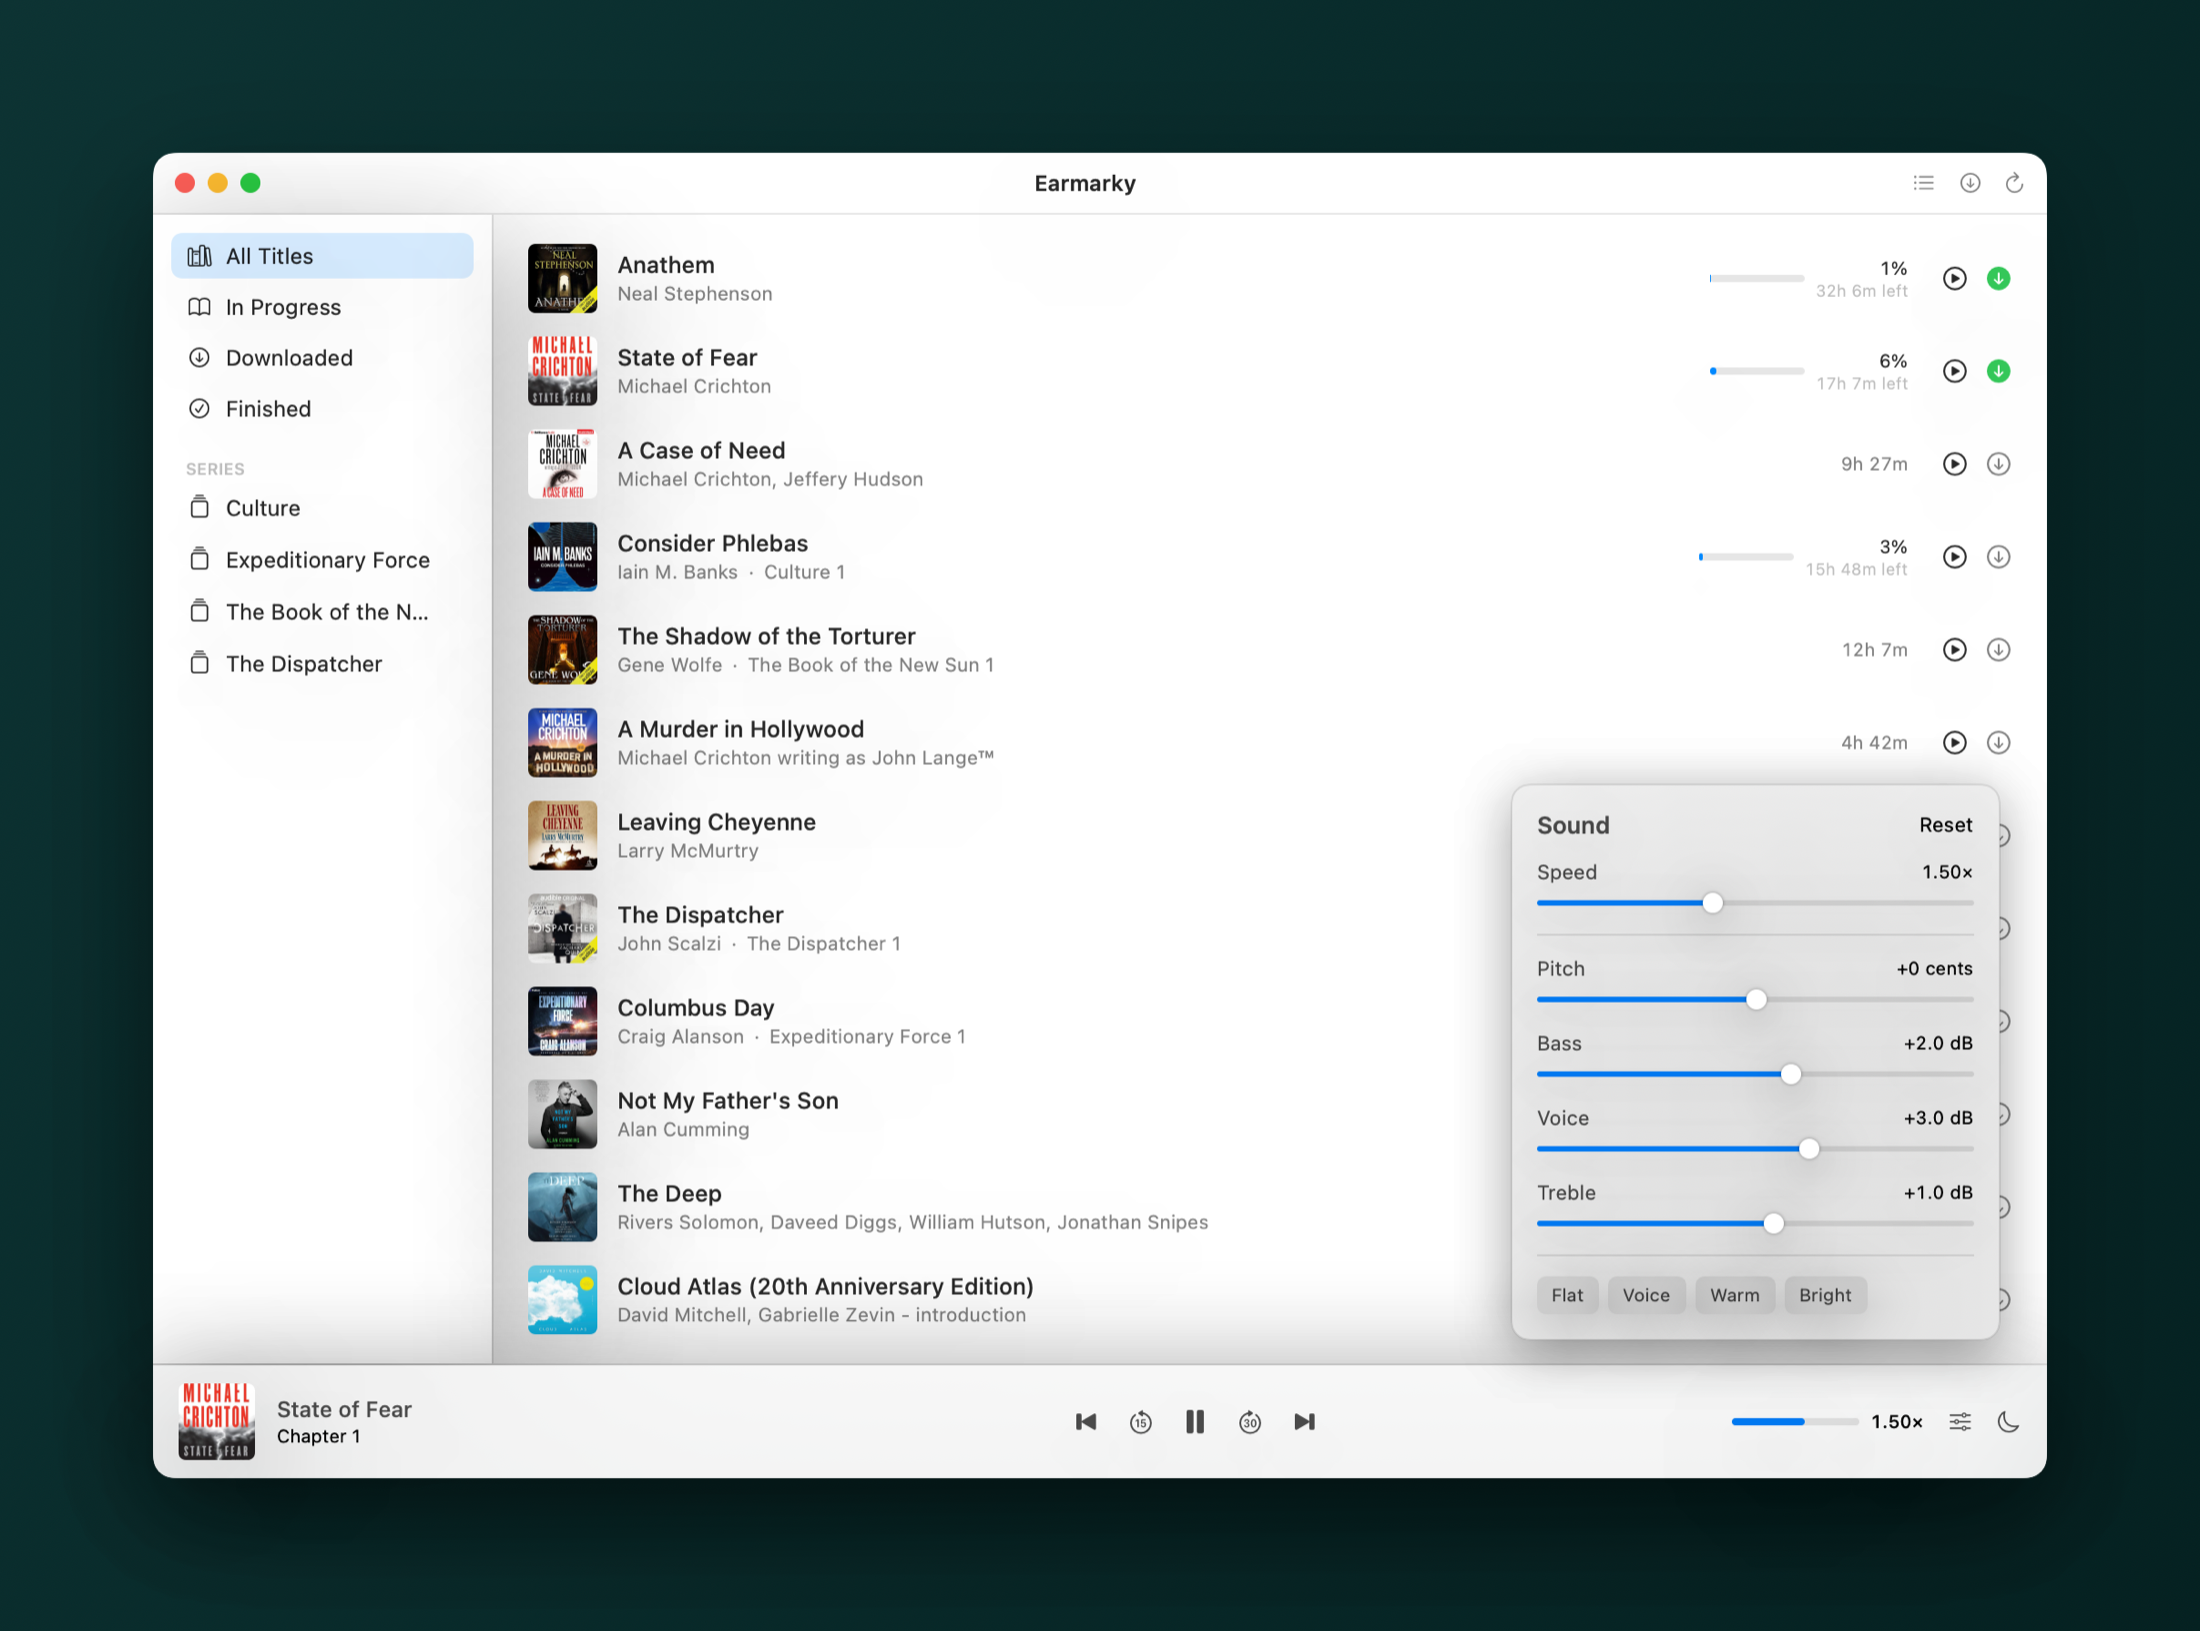
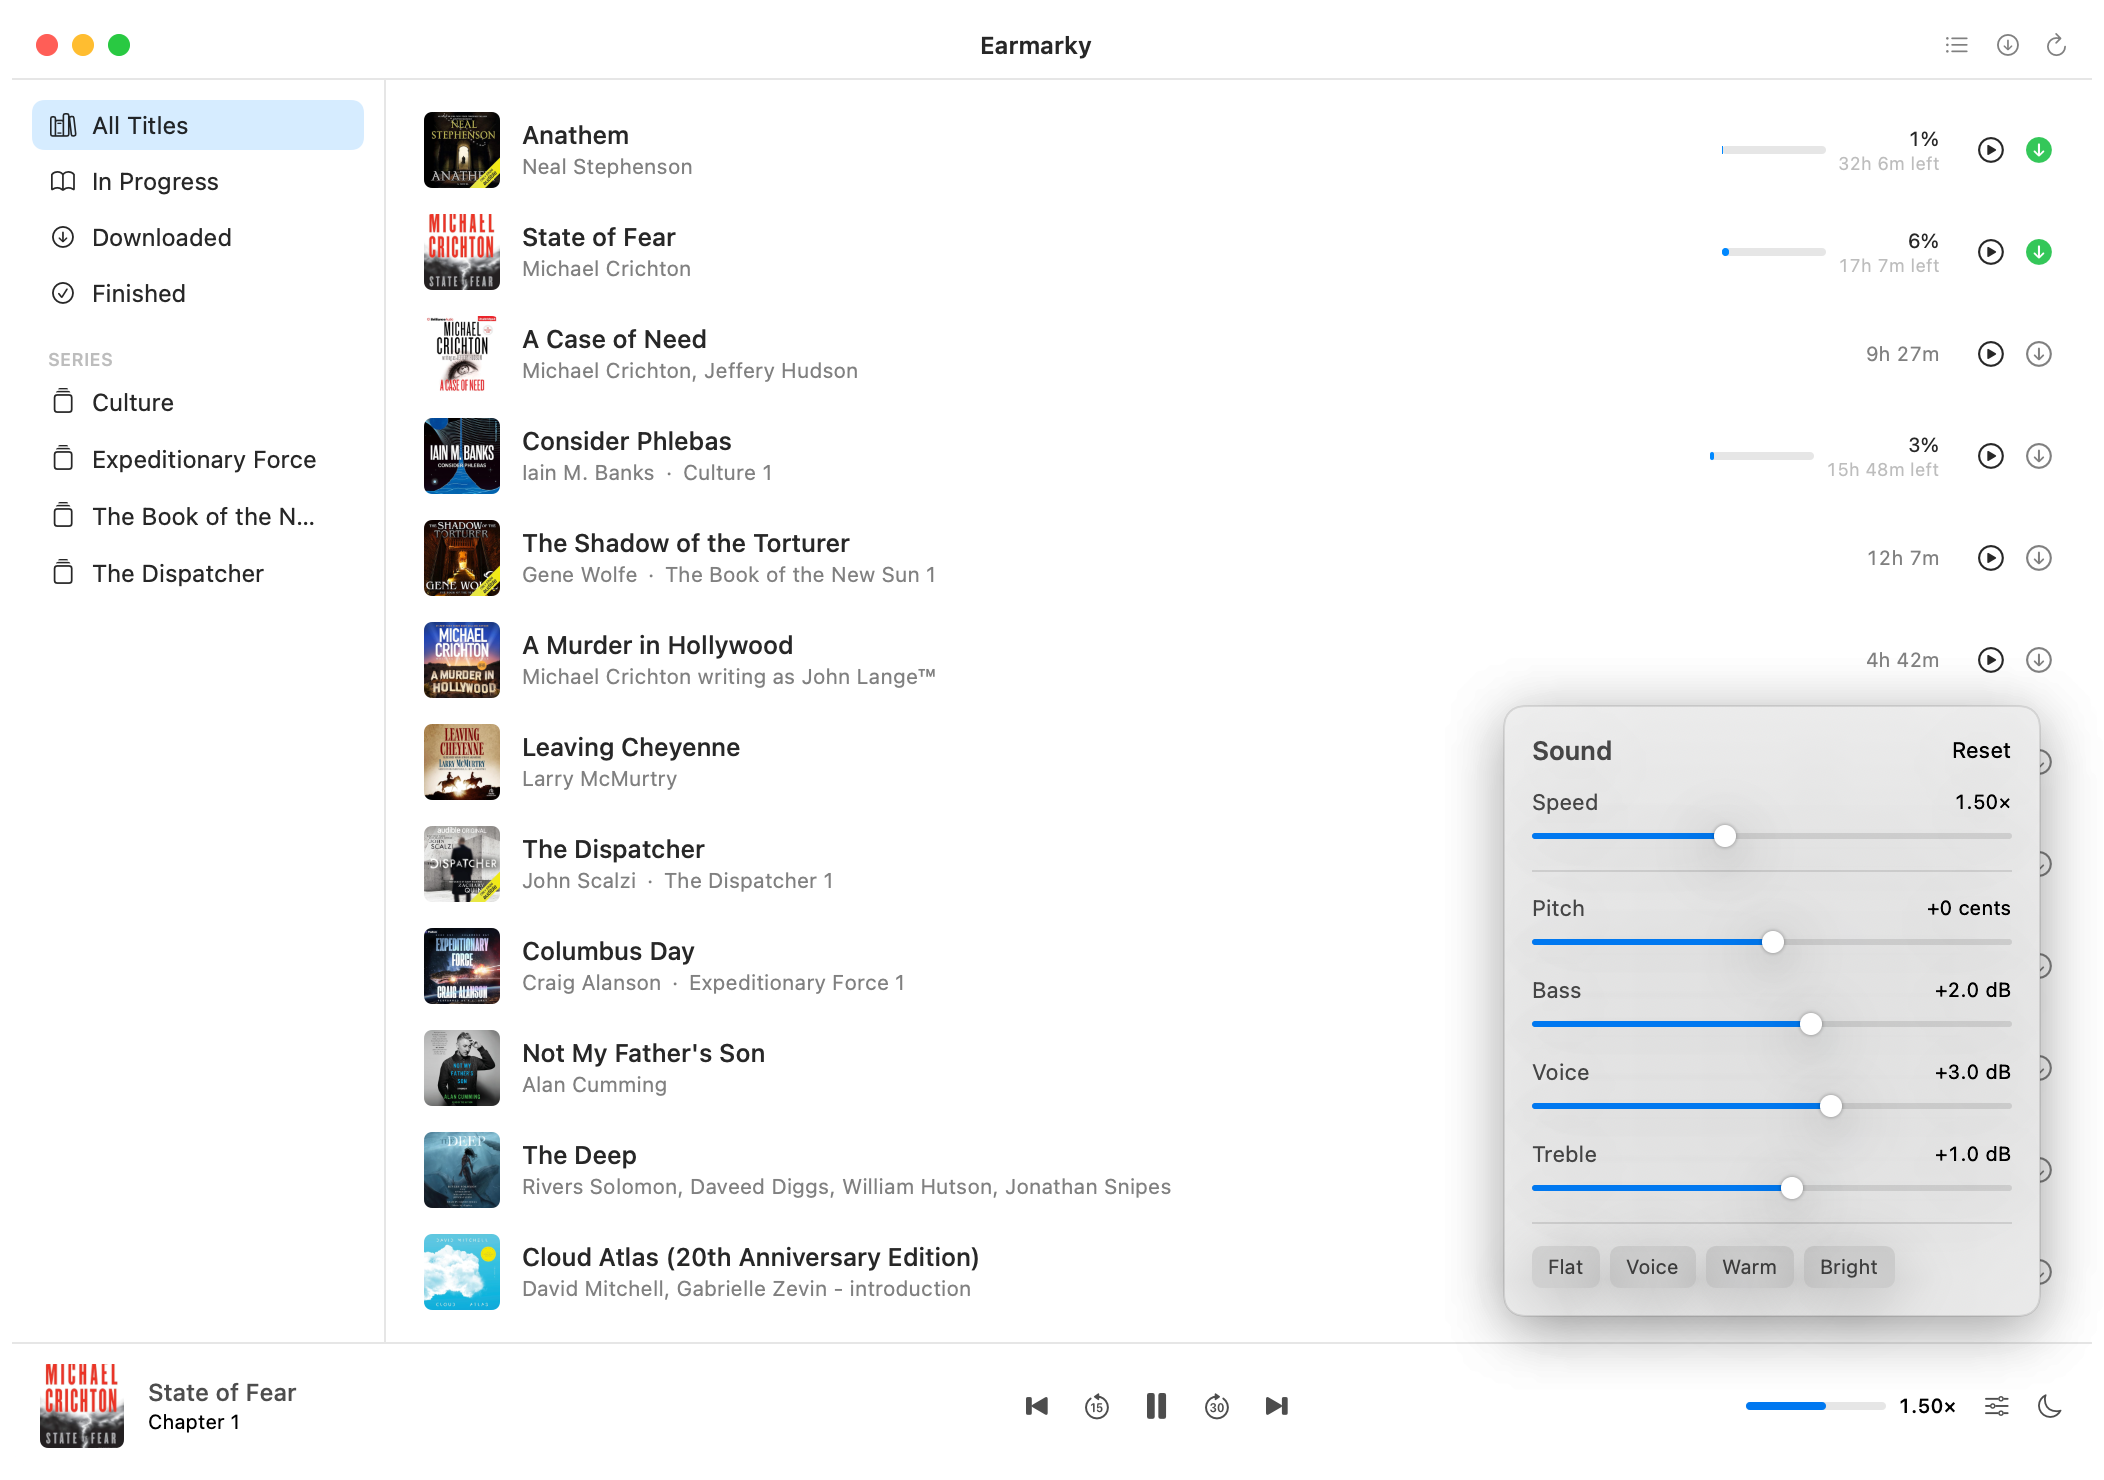
Let the page be white and the shadow be the page's
The picture carried its own dark ground, so it could only sit on a page of
that colour. It is drawn with nothing behind it now, and the page draws the
shadow, following the shape of the window rather than a box around it.

The page is light throughout. A dark one would show through a picture that
has no ground of its own.

diff --git a/docs/index.html b/docs/index.html
@@ -17,15 +17,9 @@
     --line: #e5e7eb;
     --accent: #0a6f6a;
   }
-  @media (prefers-color-scheme: dark) {
-    :root {
-      --bg: #0b0b0c;
-      --fg: #f5f5f6;
-      --muted: #9ca3af;
-      --line: #26262a;
-      --accent: #4fd8cf;
-    }
-  }
+  /* One page, in one set of colours. The picture of the application has no
+     ground of its own, so a dark page would show through it. */
+  html { color-scheme: light; }
 
   * { box-sizing: border-box; }
 
@@ -51,17 +45,11 @@
     width: 100%;
     height: auto;
     display: block;
-    border-radius: 14px;
-    box-shadow:
-      0 1px 2px rgba(0, 0, 0, .10),
-      0 30px 70px -18px rgba(3, 36, 36, .40);
-  }
-  @media (prefers-color-scheme: dark) {
-    .hero img {
-      box-shadow:
-        0 0 0 1px rgba(255, 255, 255, .07),
-        0 30px 70px -18px rgba(0, 0, 0, .75);
-    }
+    /* The picture has transparent corners, so the shadow follows its shape
+       rather than a box drawn around it. */
+    filter:
+      drop-shadow(0 1px 2px rgba(0, 0, 0, .12))
+      drop-shadow(0 24px 48px rgba(15, 40, 40, .22));
   }
 
   .shots {
@@ -71,32 +59,7 @@
     gap: 64px;
   }
 
-  figure { margin: 0; text-align: center; }
-
-  figure img {
-    width: 100%;
-    height: auto;
-    border-radius: 12px;
-    /* Two shadows: a close one for the edge, a wide soft one for the lift. */
-    box-shadow:
-      0 1px 2px rgba(0, 0, 0, .10),
-      0 24px 60px -12px rgba(3, 36, 36, .34);
-  }
-  @media (prefers-color-scheme: dark) {
-    figure img {
-      box-shadow:
-        0 0 0 1px rgba(255, 255, 255, .07),
-        0 24px 60px -12px rgba(0, 0, 0, .7);
-    }
-  }
-
-  figcaption {
-    margin-top: 18px;
-    font-size: 15px;
-    line-height: 1.5;
-    color: var(--muted);
-  }
-  figcaption strong { color: var(--fg); font-weight: 600; }
+  figure { margin: 0; }
 
   .mark {
     display: block;
@@ -105,7 +68,7 @@
     margin: 0 auto 26px;
     border-radius: 26px;
     /* The artwork is dark, so it needs an edge of its own against the page. */
-    box-shadow: 0 1px 3px rgba(0, 0, 0, .18), 0 10px 28px rgba(3, 36, 36, .22);
+    box-shadow: 0 1px 3px rgba(0, 0, 0, .16), 0 10px 26px rgba(15, 40, 40, .18);
   }
 
   h1 {

diff --git a/Sources/Earmarky/PromoShot.swift b/Sources/Earmarky/PromoShot.swift
@@ -60,6 +60,7 @@ enum PromoShot {
         for (name, scene) in scenes {
             let renderer = ImageRenderer(content: scene)
             renderer.scale = 2
+            renderer.isOpaque = false
             guard let image = renderer.nsImage,
                   let data = image.tiffRepresentation,
                   let bitmap = NSBitmapImageRep(data: data),
@@ -90,6 +91,7 @@ enum PromoShot {
 
         let renderer = ImageRenderer(content: view)
         renderer.scale = 2
+        renderer.isOpaque = false
 
         guard let image = renderer.nsImage,
               let data = image.tiffRepresentation,
@@ -123,18 +125,13 @@ struct ShotView: View {
         window
             .frame(width: 1_040)
             .clipShape(RoundedRectangle(cornerRadius: 12))
-            .shadow(color: .black.opacity(0.30), radius: 34, y: 16)
             .overlay(alignment: .bottomTrailing) {
                 if showsSound { soundPanel.padding(.trailing, 26).padding(.bottom, 76) }
             }
-            // The same air on every side. The picture takes its size from
-            // what is in it rather than being cut to fit a shape.
-            .padding(84)
-            .background(
-                LinearGradient(
-                    colors: [Color(red: 0.05, green: 0.20, blue: 0.20),
-                             Color(red: 0.02, green: 0.13, blue: 0.13)],
-                    startPoint: .topLeading, endPoint: .bottomTrailing))
+            // Nothing behind it. A picture that carries its own background
+            // can only sit on a page of that colour; one without sits on any
+            // page, and the page draws whatever shadow suits it.
+            .padding(6)
     }
 
     private var window: some View {
